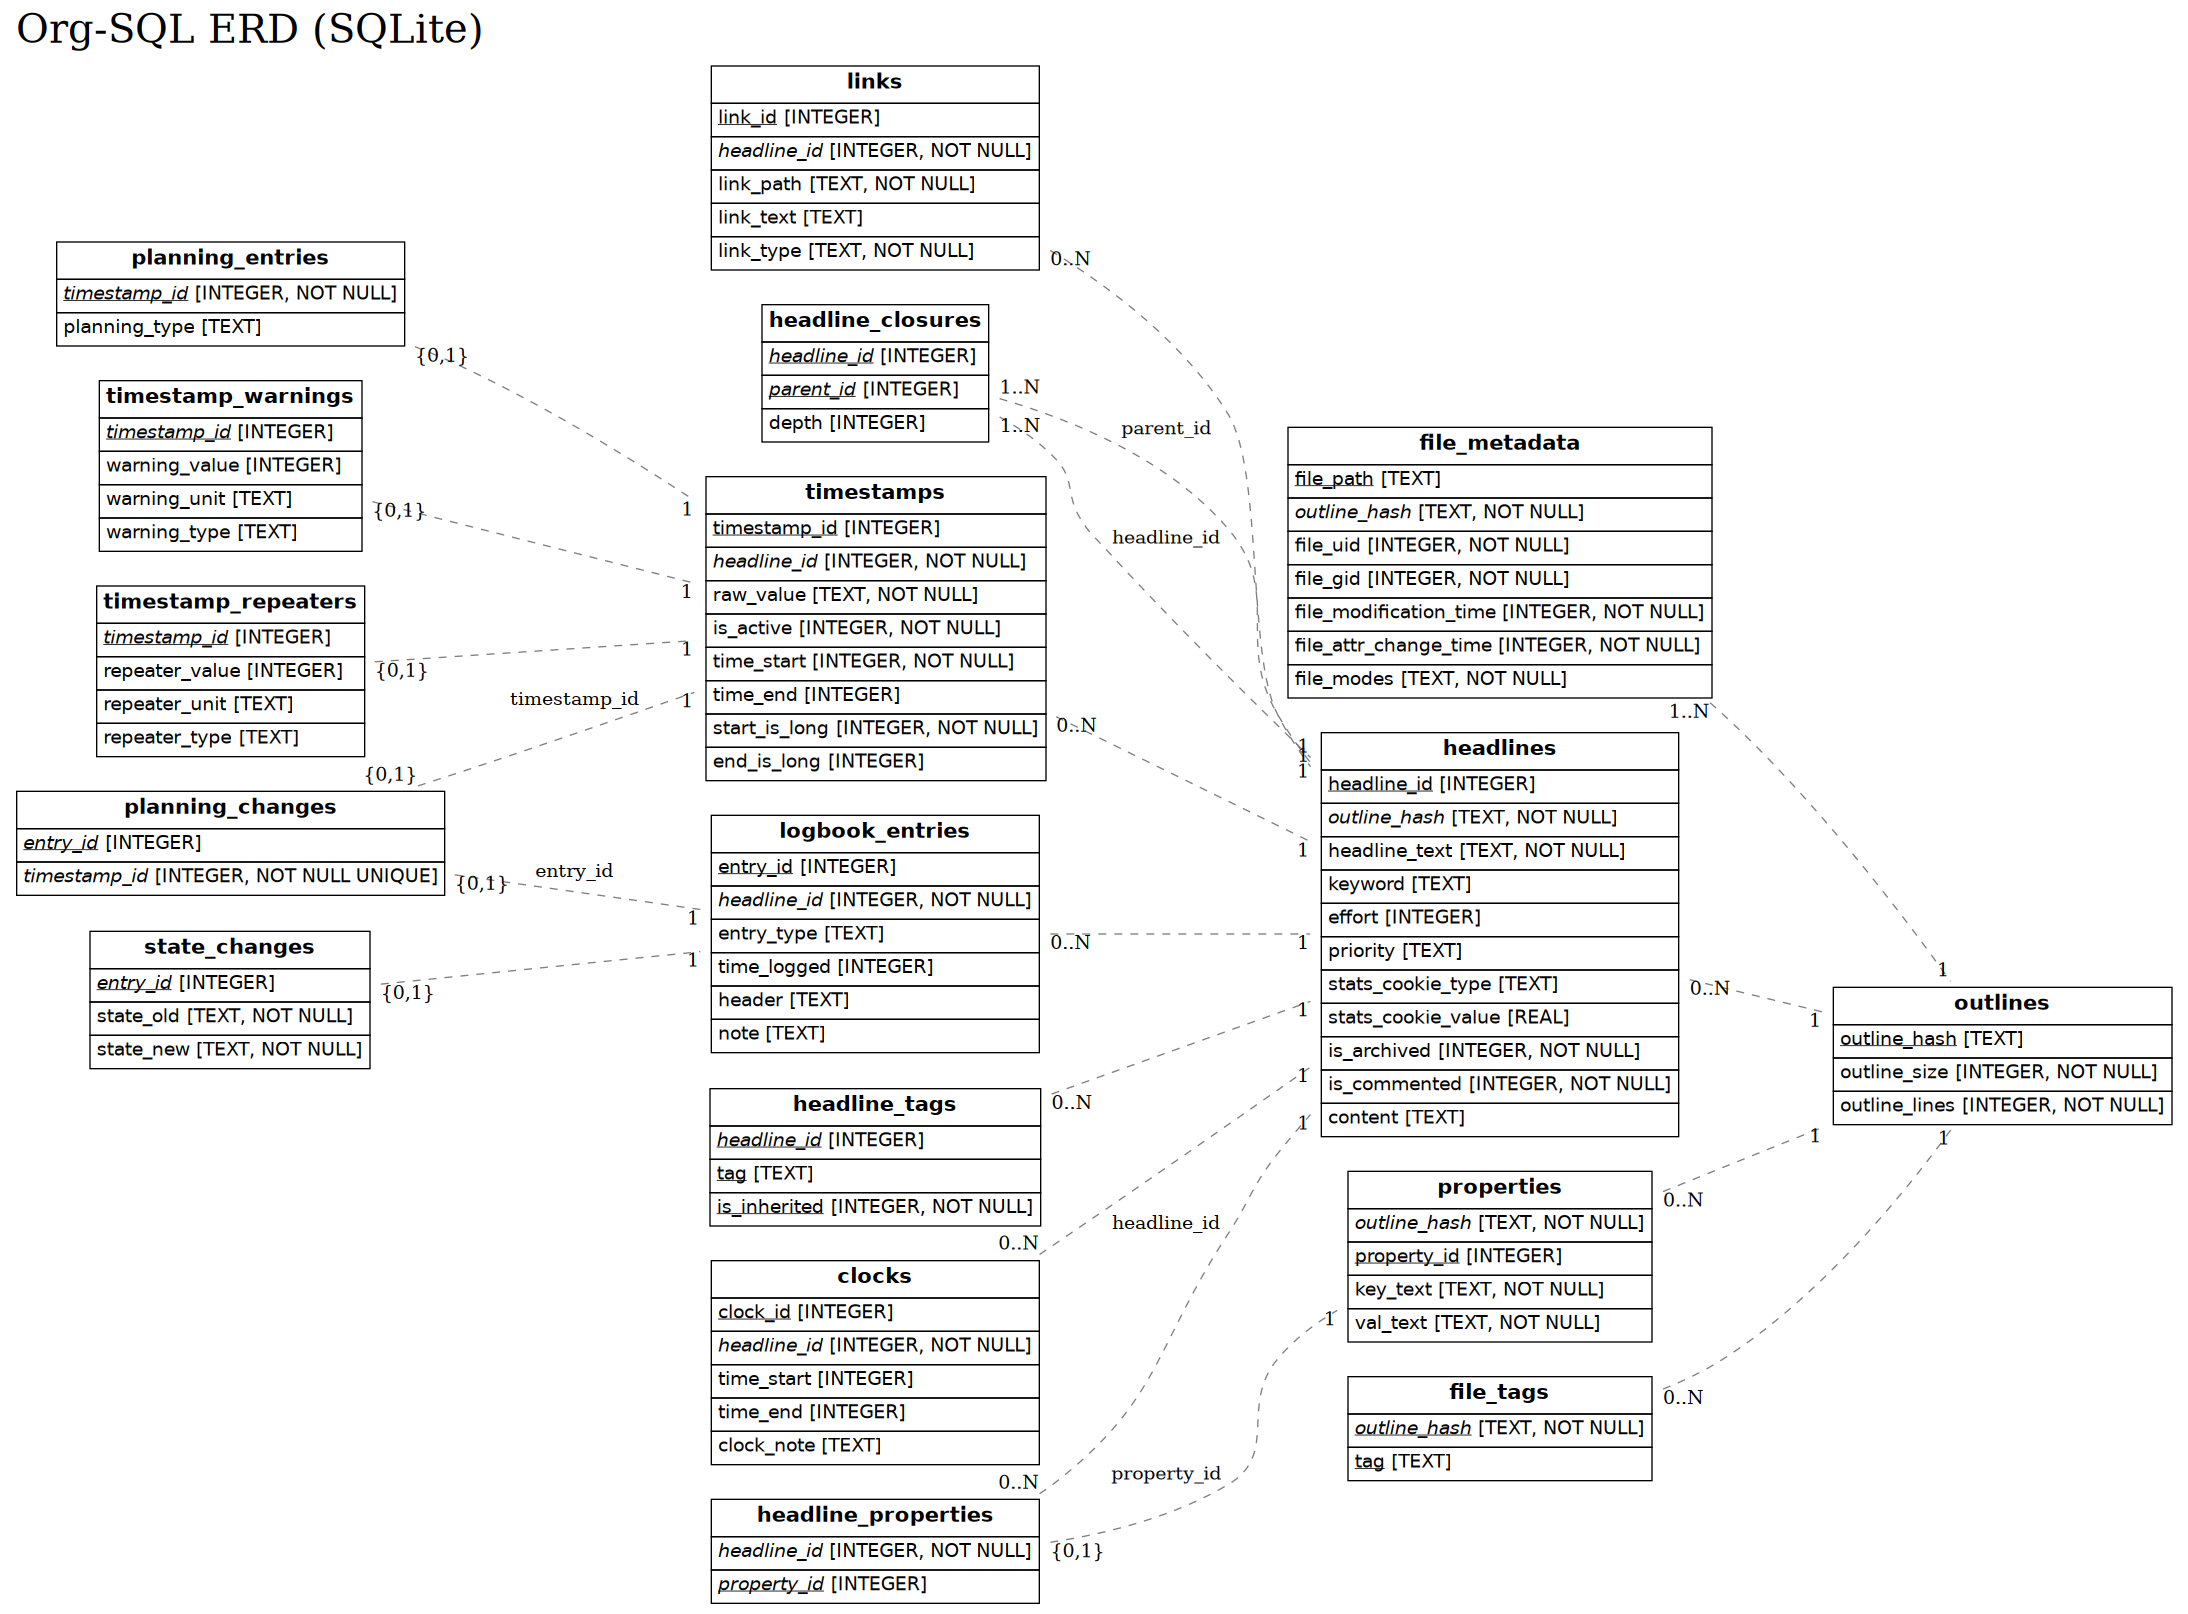
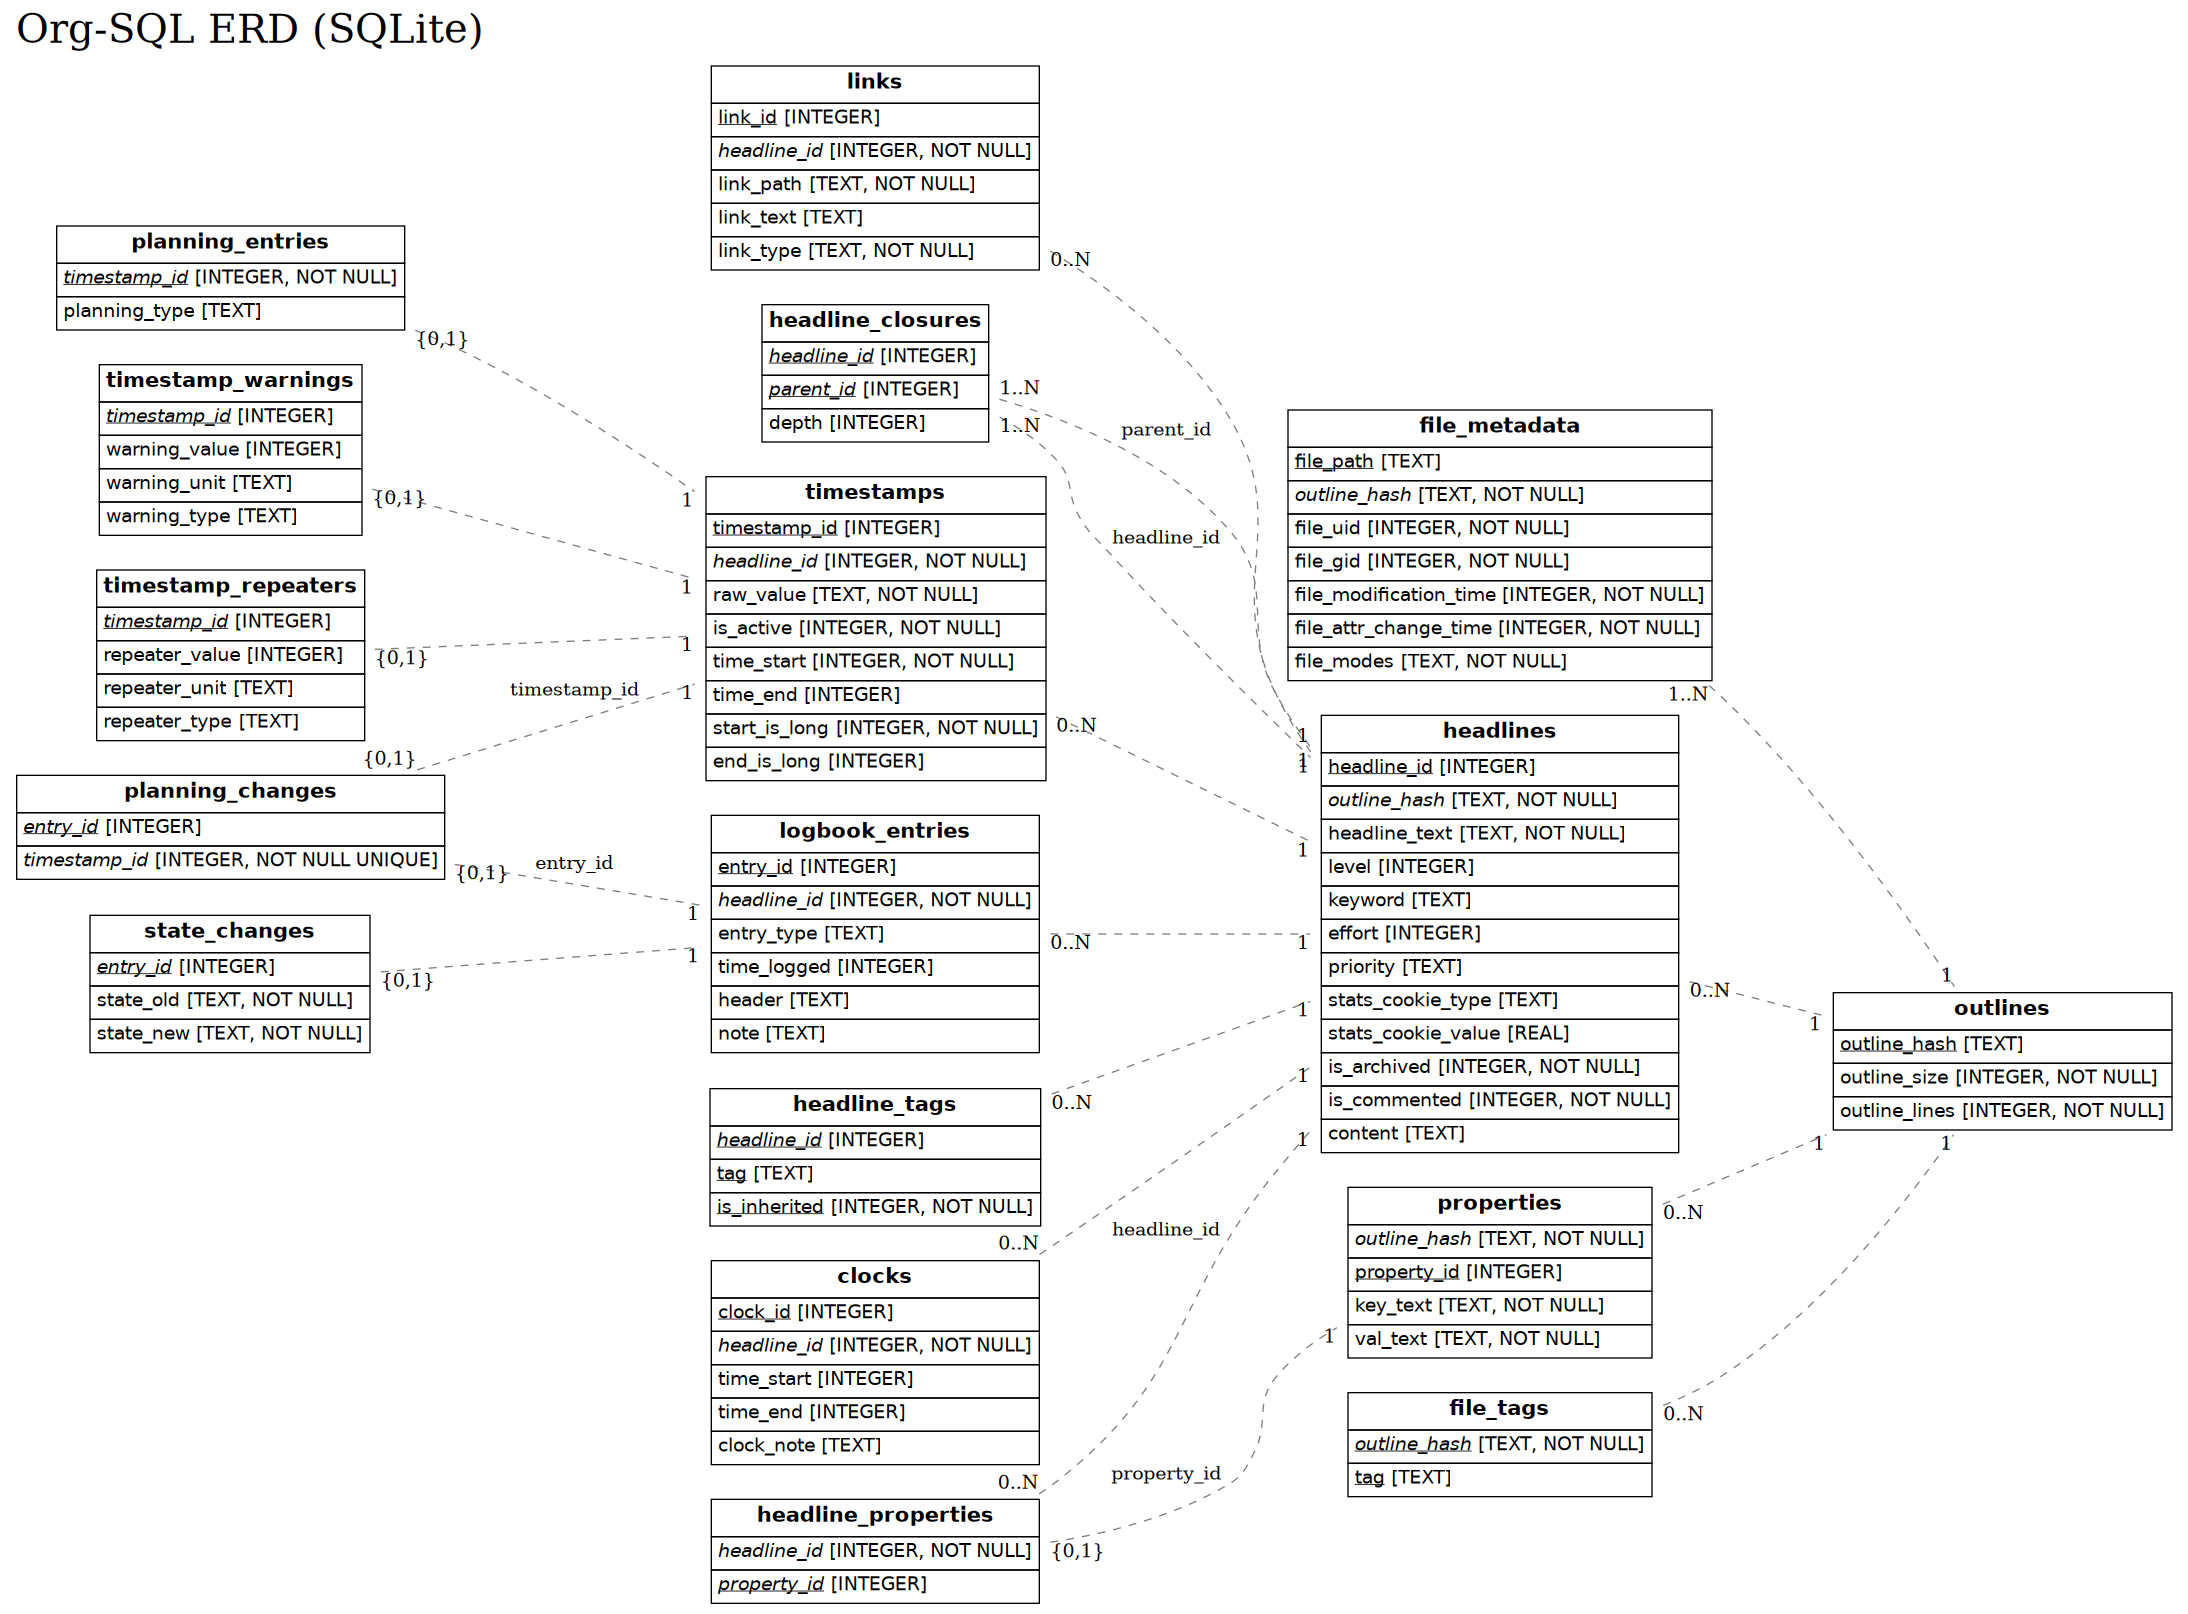
ADD level column to headlines

diff --git a/doc/table-descriptions.md b/doc/table-descriptions.md
@@ -33,6 +33,7 @@ Each row stores one headline in a given org outline.
 | headline_id | id of this headline |
 | outline_hash | hash (MD5) of the org outline with this headline |
 | headline_text | raw text of the headline without leading stars or tags |
+| level | the level of this headline |
 | keyword | the TODO state keyword |
 | effort | the value of the `Effort` property in minutes |
 | priority | character value of the priority |
